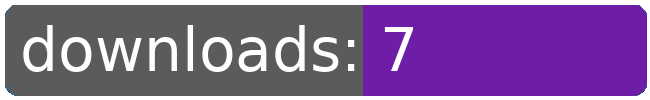
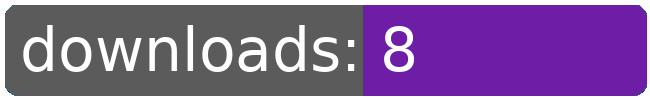
dl log written

Changed region(s): [[0.5846, 0.24, 0.6462, 0.72]]

diff --git a/README.md b/README.md
@@ -21,8 +21,8 @@
 		<td>7</td>
 		<td>7</td>
 		<td>7</td>
-		<td>7</td>
-		<td></td>
+		<td>8</td>
+		<td>+ 1</td>
 	</tr>
 	<tr>
 		<td>automata.in.human.space</td>
@@ -32,8 +32,8 @@
 		<td>7</td>
 		<td>7</td>
 		<td>7</td>
-		<td>7</td>
-		<td></td>
+		<td>8</td>
+		<td>+ 1</td>
 	</tr>
 	<tr>
 		<td>better.starts</td>
@@ -43,8 +43,8 @@
 		<td>9</td>
 		<td>9</td>
 		<td>9</td>
-		<td>9</td>
-		<td></td>
+		<td>10</td>
+		<td>+ 1</td>
 	</tr>
 	<tr>
 		<td>disable.person.ships</td>
@@ -54,8 +54,8 @@
 		<td>6</td>
 		<td>6</td>
 		<td>6</td>
-		<td>6</td>
-		<td></td>
+		<td>7</td>
+		<td>+ 1</td>
 	</tr>
 	<tr>
 		<td>disable.spaceport.repeatables</td>
@@ -65,8 +65,8 @@
 		<td>7</td>
 		<td>7</td>
 		<td>7</td>
-		<td>7</td>
-		<td></td>
+		<td>8</td>
+		<td>+ 1</td>
 	</tr>
 	<tr>
 		<td></td>
@@ -76,8 +76,8 @@
 		<td></td>
 		<td></td>
 		<td></td>
-		<td>36</td>
-		<td>0</td>
+		<td>41</td>
+		<td>5</td>
 	</tr>
 </table>
 </sub></sup>
@@ -102,8 +102,8 @@
 		<td>9</td>
 		<td>9</td>
 		<td>9</td>
-		<td>9</td>
-		<td></td>
+		<td>10</td>
+		<td>+ 1</td>
 	</tr>
 	<tr>
 		<td>disable.spaceport.repeatables</td>
@@ -113,8 +113,8 @@
 		<td>7</td>
 		<td>7</td>
 		<td>7</td>
-		<td>7</td>
-		<td></td>
+		<td>8</td>
+		<td>+ 1</td>
 	</tr>
 	<tr>
 		<td>automata.in.human.space</td>
@@ -124,8 +124,8 @@
 		<td>7</td>
 		<td>7</td>
 		<td>7</td>
-		<td>7</td>
-		<td></td>
+		<td>8</td>
+		<td>+ 1</td>
 	</tr>
 	<tr>
 		<td>automata.destruction.0percent</td>
@@ -135,8 +135,8 @@
 		<td>7</td>
 		<td>7</td>
 		<td>7</td>
-		<td>7</td>
-		<td></td>
+		<td>8</td>
+		<td>+ 1</td>
 	</tr>
 	<tr>
 		<td>disable.person.ships</td>
@@ -146,8 +146,8 @@
 		<td>6</td>
 		<td>6</td>
 		<td>6</td>
-		<td>6</td>
-		<td></td>
+		<td>7</td>
+		<td>+ 1</td>
 	</tr>
 	<tr>
 		<td></td>
@@ -157,8 +157,8 @@
 		<td></td>
 		<td></td>
 		<td></td>
-		<td>36</td>
-		<td>0</td>
+		<td>41</td>
+		<td>5</td>
 	</tr>
 </table>
 </sub></sup>
@@ -166,15 +166,15 @@
 <table>
 	<tr>
 		<td> </td>
-		<td>2025-10-19</td>
-		<td>2025-10-18</td>
 		<td>2025-10-17</td>
-		<td>2025-10-16</td>
-		<td>2025-10-15</td>
-		<td>2025-10-14</td>
-		<td>2025-10-13</td>
-		<td>2025-10-12</td>
-		<td>2025-10-11</td>
+		<td>2025-10-18</td>
+		<td>2025-10-19</td>
+		<td>2025-10-20</td>
+		<td>2025-10-21</td>
+		<td>2025-10-22</td>
+		<td>2025-10-23</td>
+		<td>2025-10-24</td>
+		<td>2025-10-25</td>
 	</tr>
 	<tr>
 		<td>page views</td>
@@ -211,7 +211,7 @@
 		<td>highest unique visitors</td>
 	</tr>
 	<tr>
-		<td>2025-10-25</td>
+		<td>2025-10-11</td>
 		<td>0</td>
 		<td>0</td>
 		<td>0</td>
@@ -225,7 +225,7 @@
 		<td></td>
 	</tr>
 	<tr>
-		<td>1</td>
+		<td>15</td>
 		<td>0.00</td>
 		<td>0.00</td>
 		<td></td>
